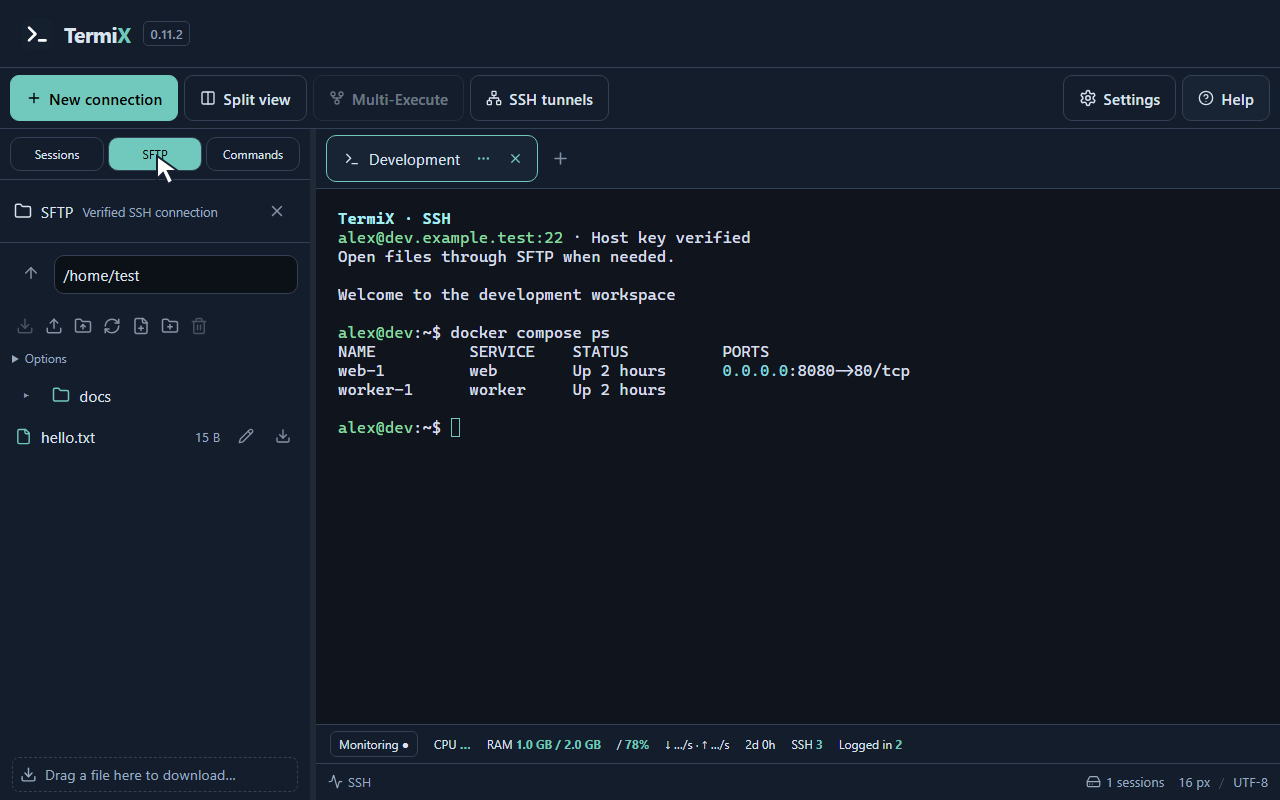
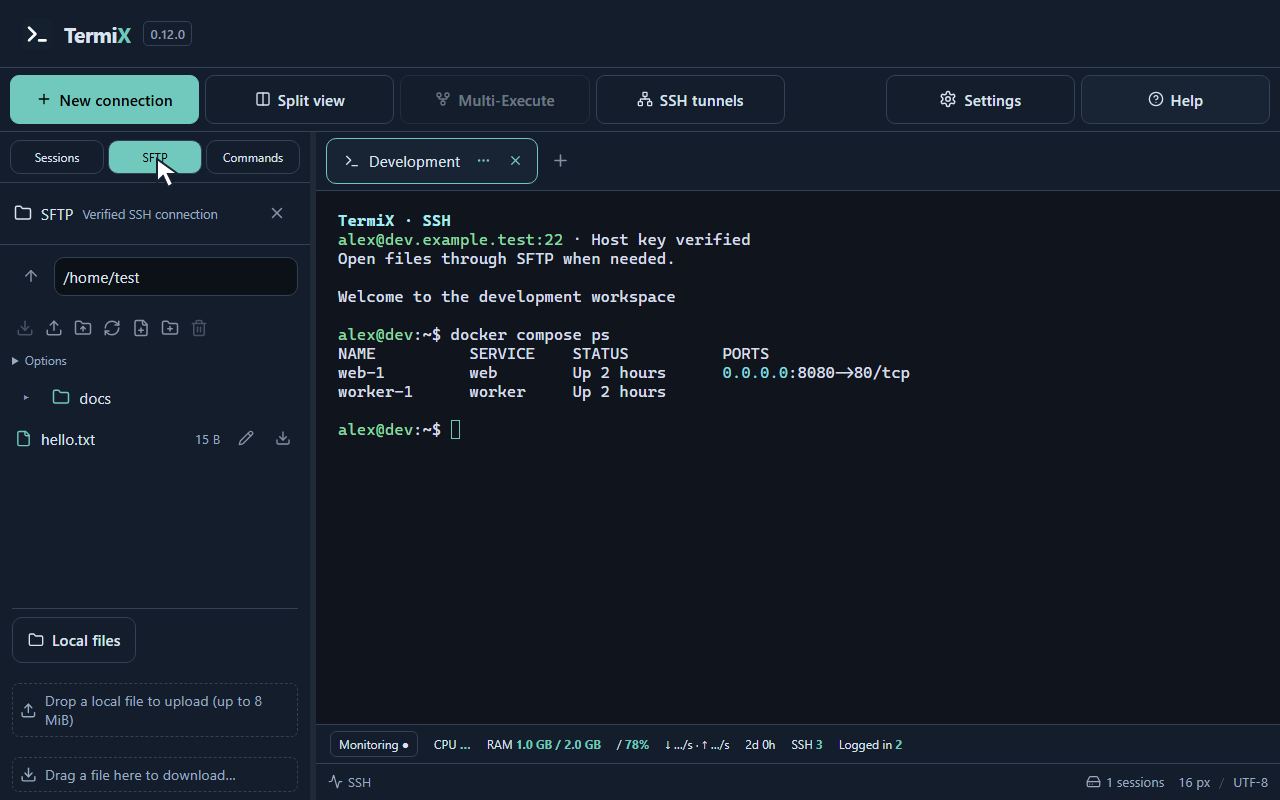
Build and document TermiX 0.12.0
Run browser checks on Linux and keep native integration, upgrade and portable verification on Windows. Restrict release publication to verified source from main and refresh the project screenshots and walkthrough.

diff --git a/playwright.config.ts b/playwright.config.ts
@@ -2,10 +2,11 @@ import { randomUUID } from "node:crypto";
 import { defineConfig } from "@playwright/test";
 
 process.env.TERMIX_TEST_SERVER_TOKEN ??= randomUUID();
+const previewUrl = `http://127.0.0.1:${process.env.TERMIX_TEST_PORT ?? "1429"}`;
 export default defineConfig({
   globalTeardown: "./scripts/stop-preview.mjs",
   testDir: "./tests", testMatch: "**/*.e2e.ts", fullyParallel: true,
-  use: { browserName: "chromium", headless: true, baseURL: "http://127.0.0.1:1429", viewport: { width: 1280, height: 800 }, trace: "retain-on-failure" },
-  webServer: { command: "node scripts/preview-test.mjs", timeout: 120000, url: "http://127.0.0.1:1429", reuseExistingServer: false },
+  use: { browserName: "chromium", headless: true, baseURL: previewUrl, viewport: { width: 1280, height: 800 }, trace: "retain-on-failure" },
+  webServer: { command: "node scripts/preview-test.mjs", timeout: 120000, url: previewUrl, reuseExistingServer: false },
   reporter: "list",
 });

diff --git a/scripts/publish-release.py b/scripts/publish-release.py
@@ -38,7 +38,9 @@ runs = [run for run in runs if run['head_sha'] == commit and run['status'] == 'c
 if not runs: raise RuntimeError('No successful same-repository build exists for this exact commit')
 run = runs[0]
 jobs = api(f'repos/{repo}/actions/runs/{run["id"]}/jobs?per_page=100')['jobs']
-if any(job['conclusion'] != 'success' for job in jobs) or not {'frontend', 'windows', 'linux-metrics'}.issubset({job['name'] for job in jobs}):
+required_jobs = {'frontend', 'windows', 'linux-metrics'}
+successful_jobs = {job['name'] for job in jobs if job['conclusion'] == 'success'}
+if not required_jobs.issubset(successful_jobs):
     raise RuntimeError('Required build jobs did not all succeed')
 artifacts = api(f'repos/{repo}/actions/runs/{run["id"]}/artifacts')['artifacts']
 artifact = next((a for a in artifacts if a['name'] == 'TermiX-Windows-Installer' and not a['expired']), None)

diff --git a/README.md b/README.md
@@ -23,11 +23,11 @@ Connect to your servers, browse remote files and keep your everyday commands clo
 
 | Workspace | Included |
 | --- | --- |
-| Terminals | Local shells and SSH, scrollable tabs with custom colours, up to six panes, and Multi-Execute with a preview of the targets. |
-| Connections | Saved sessions, folder search, favourites, scoped JSON import/export, alternate SSH login and SFTP from the session menu. |
-| Remote files | Browse SFTP on the verified SSH connection; upload whole folders or files, download files, create and remove files or empty folders. |
+| Terminals | Local shells and SSH, scrollable tabs with custom colours, up to six panes, detachable live terminals, and Multi-Execute with a preview of the targets. |
+| Connections | Saved sessions, folder search, favourites, scoped JSON import/export, alternate SSH login, compatible OpenSSH/PuTTY/MobaXterm imports, SFTP from the session menu, and RDP via Windows Remote Desktop. |
+| Remote files | Browse SFTP on the verified SSH connection; upload whole folders or files, resume downloads after interruption, and create or remove files and empty folders. |
 | SSH tunnels | Explicit local/remote TCP forwarding with loopback defaults, active connection counts and Stop. |
-| Editing | Integrated Monaco editor with find/replace, comparison, explicit server saves and a read-only view of terminal output. External editing is optional. |
+| Editing | Integrated Monaco editor with find/replace, comparison, explicit server saves and terminal output in your preferred editor. Hide the editor to browse SFTP while retaining its tabs. |
 | Commands | Search, run, import and export named commands. JSON imports show a preview before adding commands to the library. |
 | Monitoring | Read-only SSH metrics for Linux, FreeBSD, macOS and Windows. Available counters depend on the remote system. |
 | Appearance | Light/dark/system, accent colours, readable font and UI scaling; categorized settings and first-run setup. |
@@ -52,7 +52,7 @@ The [v0.12.0 development notes](docs/releases/v0.12.0.md) cover the TermiX Edito
 </tr>
 </table>
 
-The current development workspace includes detachable terminals, resumable SFTP downloads, folder retries that preserve identical files, and SSH monitoring for Linux, FreeBSD, macOS and Windows. Native Windows validation is pending for these changes. See the [roadmap](docs/ROADMAP.md) for remaining work.
+In v0.12.0, interrupted downloads can resume after reconnect or restart when the local prefix matches. Folder upload retries skip byte-identical files and restart the interrupted file. See the [roadmap](docs/ROADMAP.md) for remaining work.
 
 ## Download and get started
 
@@ -72,7 +72,7 @@ This is active development software. See [security scope and limitations](docs/S
 
 Tauri 2 · Rust · React · TypeScript · xterm.js · Monaco
 
-Development now takes place directly on `main`. Windows CI validates the exact source, native integration, browser workflows, packaging, upgrades and portable isolation before publishing immutable release assets.
+Development now takes place directly on `main`. Application pushes to main trigger CI. Linux runs the browser suite and Linux monitoring checks. Windows validates native integration, packaging, upgrades and portable isolation. Publication requires all three checks and the build receipt for the exact source. Docs-only pushes skip the build.
 
 See the [contributor instructions](AGENTS.md), [development history and build guidance](docs/PROJECT-HISTORY.md) and [roadmap](docs/ROADMAP.md).
 

diff --git a/docs/releases/v0.12.0.md b/docs/releases/v0.12.0.md
@@ -1,4 +1,4 @@
-# TermiX 0.12.0 · Editor workspace and Remote Desktop
+# TermiX 0.12.0 · Editor, workspace and remote connections
 
 ## Connections
 
@@ -7,7 +7,7 @@
 ## TermiX Editor
 
 - Hide the editor while browsing SFTP. Open another file and compare it with a retained tab.
-- Use clearer tabs, search icons and highlights, go-to-line, word wrap and tab width controls.
+- Use clearer tabs, search icons and highlights, go-to-line, word wrap and tab width controls. Format JSON, CSS and HTML on demand, then review before saving.
 - Open a terminal output snapshot in your preferred editor. External editors receive a temporary local text copy.
 
 ## Workspace
@@ -16,11 +16,19 @@
 - External files appear in the status bar. TermiX uses its own confirmation dialogs for closing the app and discarding editor changes.
 - Uploading edits from an external editor requires confirmation. Server conflicts block overwriting.
 
-## Current development follow-up
+## Transfers, session imports and monitoring
 
-- Detachable terminals retain their live process and scrollback. Confirmations use TermiX dialogs, including in detached windows.
-- SFTP downloads can reuse a verified local partial after reconnect or restart. Uploads can pause and resume within one connection. After a disconnect, an interrupted upload starts again in a new staging file. Folder retries skip verified identical files.
-- OpenSSH, PuTTY and MobaXterm imports preview compatible SSH entries. PuTTY and MobaXterm entries without a saved username are skipped.
+- Detachable terminals retain their live process and scrollback. Split dividers are adjustable, and the workspace remembers its split and collapse state. Confirmations use TermiX dialogs, including in detached windows.
+- Browse local files beside SFTP and confirm uploads dropped from Windows Explorer. SFTP downloads can reuse a verified local partial after reconnect or restart. Uploads can pause and resume within one connection. After a disconnect, an interrupted upload starts again in a new staging file. Folder retries skip verified identical files.
+- Create desktop shortcuts and SSH defaults, ping a saved host or open multiple saved sessions together. OpenSSH, PuTTY and MobaXterm imports preview compatible SSH entries. PuTTY and MobaXterm entries without a saved username are skipped.
 - Read-only monitoring covers Linux, FreeBSD, macOS and Windows, with platform-specific counters.
 
-Native Windows application validation and live SSH checks are pending for these follow-up changes.
+## Commands and shortcuts
+
+- Record explicitly submitted commands as a macro and assign shortcuts in settings.
+
+## Windows downloads
+
+Choose the EXE installer, MSI package or portable ZIP. Preserve the portable data folder when updating. Use the included checksums to verify the download.
+
+Live interoperability with every supported remote OS and editor remains outside the automated test coverage.

diff --git a/docs/README.de.md b/docs/README.de.md
@@ -1,6 +1,6 @@
 # TermiX
 
-Im aktuellen Entwicklungsstand lassen sich laufende Terminals abtrennen und SFTP-Downloads nach einer Unterbrechung wieder aufnehmen. Wiederholte Ordneruploads überspringen bytegleiche vorhandene Dateien. Das SSH-Monitoring unterstützt Linux, FreeBSD, macOS und Windows. Die native Windows-Prüfung der neuen Funktionen steht aus.
+Im aktuellen Entwicklungsstand lassen sich laufende Terminals abtrennen und SFTP-Downloads nach einer Unterbrechung wieder aufnehmen. Wiederholte Ordneruploads überspringen bytegleiche vorhandene Dateien. Das SSH-Monitoring unterstützt Linux, FreeBSD, macOS und Windows.
 
 **Terminal, Server und Dateien in einem übersichtlichen Arbeitsplatz.**
 
@@ -15,10 +15,10 @@ TermiX verbindet lokale Terminals, SSH, SFTP und einen integrierten Editor in ei
 - Sitzungen und Ordner per Rechtsklick verwalten und gezielt als JSON importieren oder exportieren. Bei SSH kannst du dich mit einem anderen Benutzernamen verbinden oder SFTP öffnen.
 - Terminal-Tabs sortieren, umbenennen, mit einer eigenen Farbe markieren und anheften. Bis zu sechs Terminals gleichzeitig anzeigen und Befehle per Multi-Execute an die bestätigten Ziele senden.
 - Dateien über die geprüfte SSH-Verbindung per SFTP übertragen und bearbeiten.
-- Monaco mit Suchen, Ersetzen und Dateivergleich oder einen externen Editor verwenden. Terminalausgaben lassen sich schreibgeschützt im integrierten Editor öffnen.
+- Monaco mit Suchen, Ersetzen und Dateivergleich oder einen externen Editor verwenden. Terminalausgaben öffnen sich im eingestellten Editor. Beim Wechsel zurück zu SFTP bleiben die Editor-Tabs erhalten.
 - Benannte Befehle in der Seitenleiste speichern, ausführen und als JSON importieren oder exportieren.
 - Lokale und entfernte TCP-Weiterleitungen über eine geprüfte SSH-Verbindung einrichten.
-- CPU, RAM, Speicherplatz und weitere Linux-Metriken beobachten.
+- CPU, RAM, Speicherplatz und weitere Werte für Linux, FreeBSD, macOS und Windows beobachten. Die verfügbaren Werte hängen vom Zielsystem ab.
 
 [Änderungen in v0.11.2](releases/v0.11.2.md) · [Veröffentlichte Windows-Versionen](https://github.com/TomateMozzarella/TermiX/releases)
 

diff --git a/docs/ROADMAP.md b/docs/ROADMAP.md
@@ -1,10 +1,10 @@
 # TermiX – Product Roadmap and Project Handoff
 
-### Current development workspace after v0.12.0
+### v0.12.0 release candidate
 - Detachable terminals retain the live process and scrollback. Window appearance and labels follow workspace settings.
 - SFTP downloads verify a saved local prefix when the same source and destination are chosen again. Uploads retain in-session pause and resume. Following a disconnect, retrying a folder verifies completed files and skips identical ones; the interrupted file starts again in a new exclusive staging file.
 - Third-party import reviews supported OpenSSH, PuTTY and MobaXterm entries. Entries without a saved SSH username are skipped.
-- FreeBSD, macOS and Windows have read-only SSH monitoring collectors. Native Windows, SFTP and remote-host validation remain pending.
+- FreeBSD, macOS and Windows have read-only SSH monitoring collectors. The release workflow requires native Windows, browser and Linux collector checks. Broader live remote-host interoperability remains manual.
 
 Last updated: 2026-11-08
 Status: v0.10.0 implemented, tested, integrated into main and published on 2026-11-08. SSH tunnels, recursive folder upload and post-v0.9 UI improvements are delivered. Only main remains; future work stays on main. The v0.11 workspace redesign and Multi-Execute await native release validation.

diff --git a/docs/media/README.md b/docs/media/README.md
@@ -1,5 +1,5 @@
 # Project media
 
-Captured from the built TermiX 0.11.2 UI with Playwright and mock IPC. Hosts, users, file contents and metrics are illustrative.
+Captured from the built TermiX 0.12.0 UI with Playwright and mock IPC. Hosts, users, file contents and metrics are illustrative.
 
 Capture the walkthrough from the repository root with `npx playwright test --config scripts/project-demo.config.ts`, then encode it with `python scripts/make-project-gif.py` (requires Pillow). The Playwright suite captures the split, command and help views when `TERMIX_PREVIEW_DIR` is set. The GIF pointer follows the demonstrated controls.
